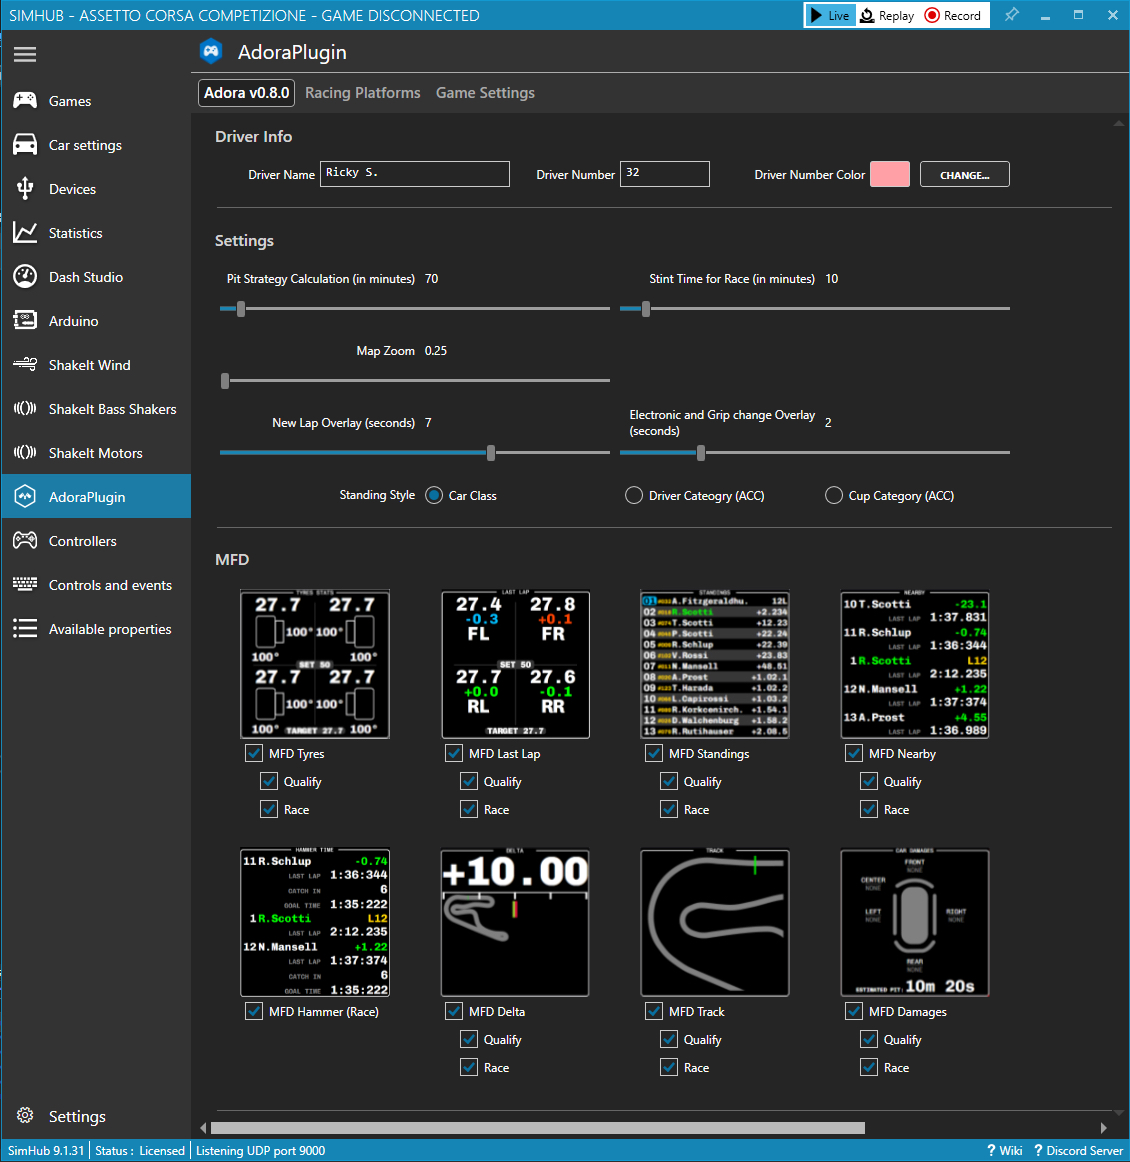
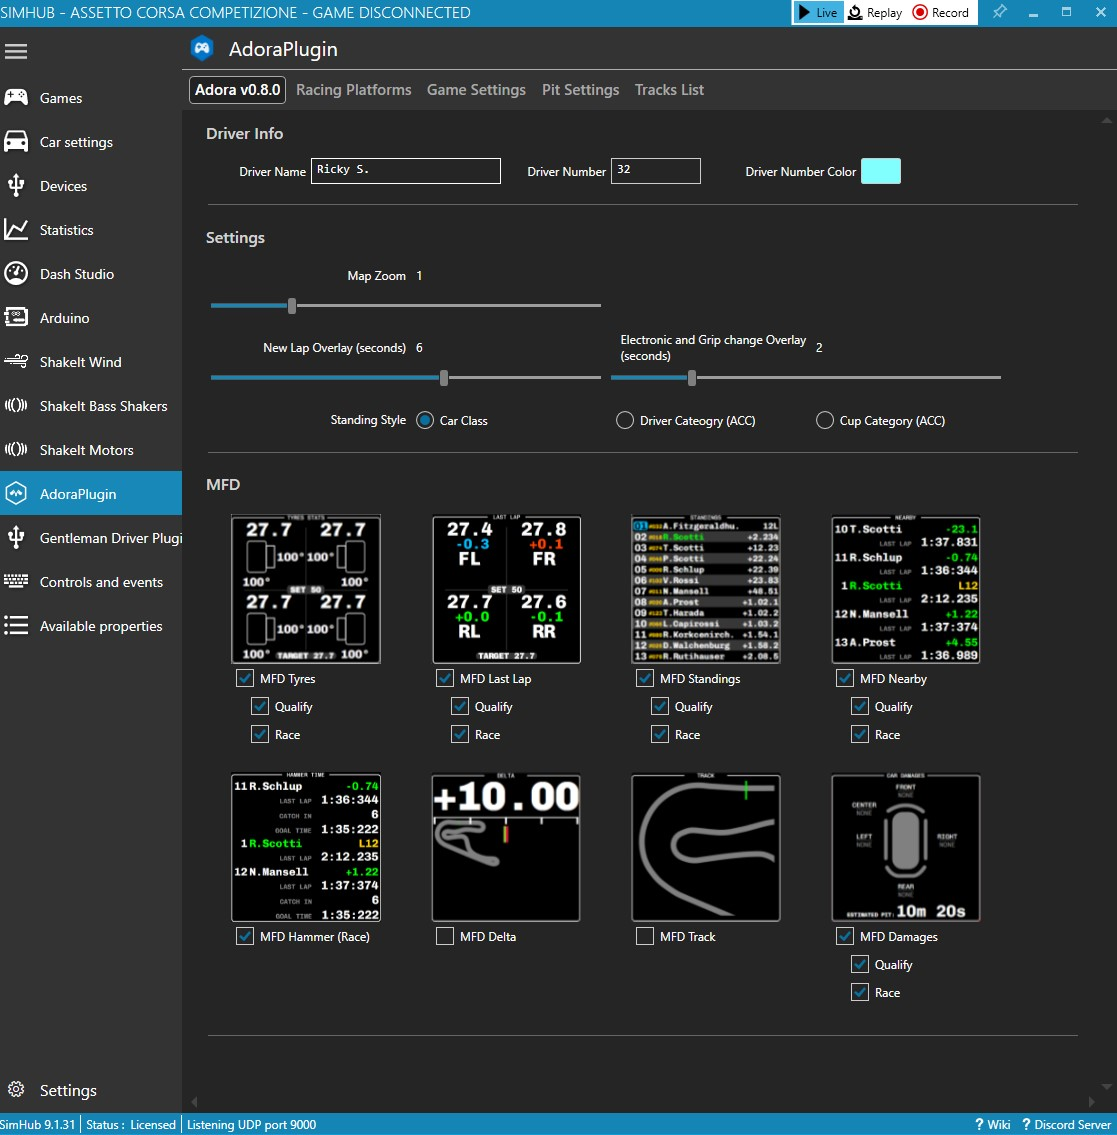
v0.8.0

diff --git a/doc/plugin.md b/doc/plugin.md
@@ -1,19 +1,19 @@
 # PLUGIN CONFIGURATION
 - [Plugin Tab](#adora-v-tab)
 - [Racing Platforms Tab](#racing-platforms-tab)
-- [Gazme Settings Tab](#game-settings-tab)
+- [Game Settings Tab](#game-settings-tab)
+- [Pit Settings Tab](#pit-settings-tab)
+- [Tracks List Tab](#track-list-tab)
 
 ## Adora v Tab
 ![Main Tab](/src/images/docs/plugin.jpg)
 
 This is the main section of the Adora Plugin where you can set various parameters.
 ### Driver Info
-In the first section, you can set your name, number, and color (by clicking on 'change') to set up a customized idle screen.
+In the first section, you can set your name, number, and color (by clicking on the color itself) to set up a customized idle screen.
 It is only a cosmetic setting to make AdoraDash look nicer and more personalized.
 
 ### Settings
-- Pit Strategy Calculation: When you are in the pit lane, with the engine and ignition off, you have an extra MFD showing information about tires and, in the fuel position, details about the fuel strategy relative to a race length set using this slider.
-- Stint Time for Race: This value calculates the fuel to add at the next pit based on stint time and not the full remaining time of the race. In any case, if you set a stint longer than the tank capacity, the tank capacity will be shown as the fuel value to add at the next pit. (0 = full remaining time or maximum tank size of the car.)
 - Map Zoom: Value (smaller = bigger) of the map in the MFD display.
 - New Lap Overlay: Each time you cross the finish line, an overlay layer appears over your MFD showing specific information. Here you can set for how many seconds this overlay will be shown.
 - Electronics Change Overlay: Each time you change ABS, brake bias, TC, map, and so on in the top-left section of the dashboard, this information will flash to show the change.  You can set for how many seconds you want this info flashing (0 = not appear).
@@ -32,7 +32,6 @@ It will be visible only in practice and the race.
 - MFD Delta: A delta time and a small track view.
 - MFD Track: It shows the track and all the cars.
 - MFD Damage: It shows car damage status.
-
 
 
 ## Racing Platforms Tab
@@ -60,6 +59,20 @@ In detail, you can set the target PSI for a specific game.
 In Generic, you can set a generic value for sims not listed.
 
 Target temperature (dry/wet) is displayed on the dashboard as a target value, and all the tires are aimed at this target, showing the delta in specific MFD displays.
+
+## Pit Settings Tab
+![Pit Settings Tab](/src/images/docs/plugin/pit_settings.jpg)
+Set up your pit strategy and generic pit calculations.
+### Generic Settings
+- Pit Strategy Calculation: When you are in the pit lane, with the engine and ignition off, you have an extra MFD showing information about tires and, in the fuel position, details about the fuel strategy relative to a race length set using this slider.
+- Stint Time for Race: This value calculates the fuel to add at the next pit based on stint time and not the full remaining time of the race. In any case, if you set a stint longer than the tank capacity, the tank capacity will be shown as the fuel value to add at the next pit. (0 = full remaining time or maximum tank size of the car.)
+### Pit Generic Calculation
+This section, combined with the Tracks List tabs, provides you with the timing to calculate pit stops during the race and estimate your final position.
+- Pit Lane Length: If a specific pit lane length in seconds is not set in the Tracks List for your sim, this is the default value used.
+- Fuel added in one second: Please specify how much fuel (liters/gallons) is loaded into your car per second.
+- Extra fixed time to refuel: This parameter adds some extra seconds for refueling.
+- Pit time for changing tires: If you want the estimation of your pit stop to include changing tires, please set the amount of time it requires in seconds.
+
 
 ## Other Steps
 1. Step into [Action Buttons and Triggers](triggers.md) to seamlessly control AdoraDash.
